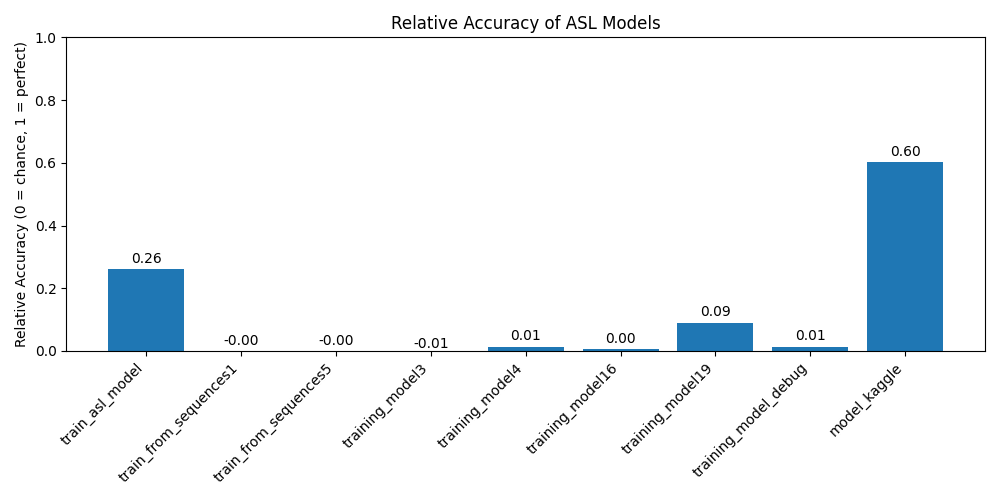
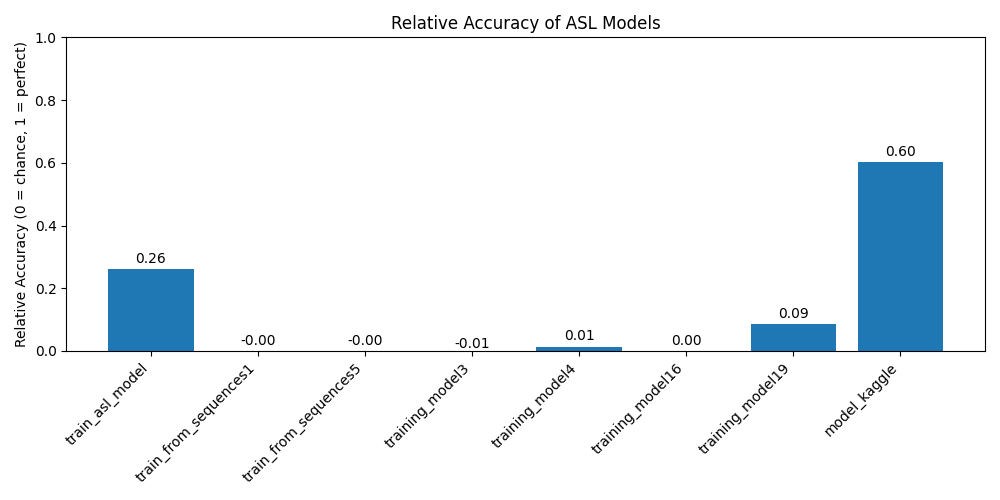
update newest changes

diff --git a/Comparison/plot.py b/Comparison/plot.py
@@ -5,7 +5,7 @@ import json
 import matplotlib.pyplot as plt
 
 # ---------------- USER CONFIG ----------------
-OUTPUT_DIR = r"C:\Users\garga\Documents\Maturarbeit\comparison\v2"
+OUTPUT_DIR = r"C:\Users\garga\Documents\Maturarbeit\comparison"
 os.makedirs(OUTPUT_DIR, exist_ok=True)
 
 BAR_PLOT_PATH = os.path.join(OUTPUT_DIR, "relative_accuracy_comparison.png")
@@ -48,15 +48,6 @@ models_info = [
         "model_name": "training_model19",
         "num_classes": 200,
         "accuracy": 0.09102730453014374
-    },{
-        "model_name": "training_model20",
-        "num_classes": 200,
-        "accuracy": 0.09752926230430603 #test accuracy right?
-    },
-    {
-        "model_name": "training_model_debug",
-        "num_classes": 100,
-        "accuracy": 0.02368421107530594
     },
     {
         "model_name": "model_kaggle",
